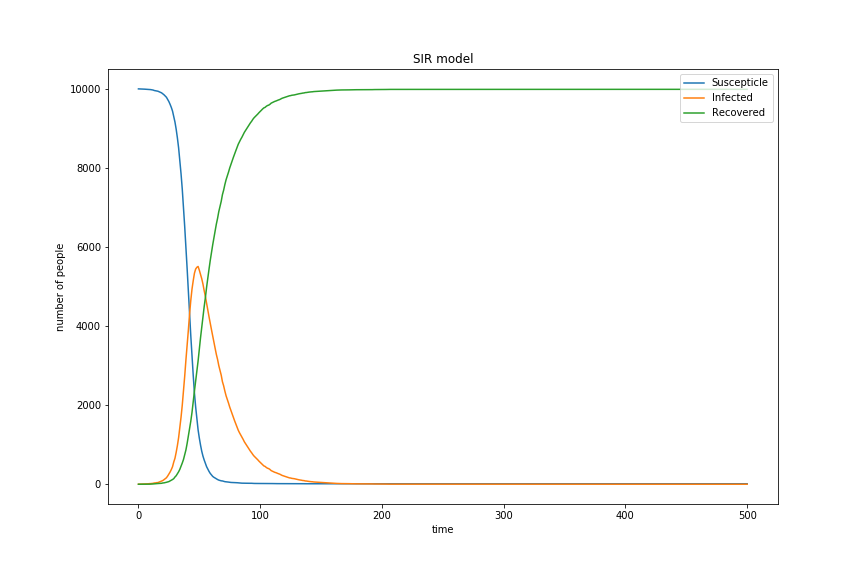
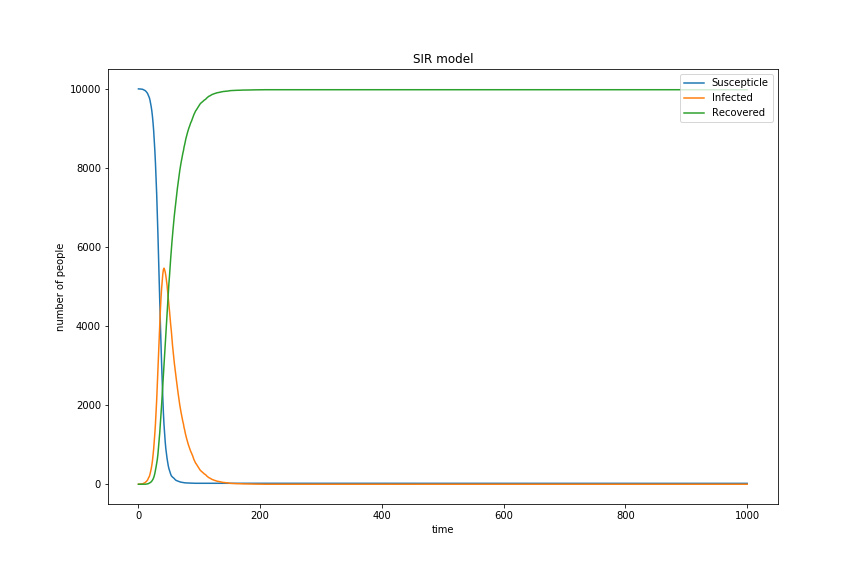
reviewed

diff --git a/Practical12/SIR_vac/SIR_vaccination.py b/Practical12/SIR_vac/SIR_vaccination.py
@@ -8,7 +8,7 @@ Created on Mon May  6 16:15:04 2019
 import numpy as np
 import matplotlib.pyplot as plt
 import pandas as pd
-b = 0.3; y = 0.05; T = 500 # b for beta, y for gamma
+b = 0.3; y = 0.05; T = 1000 # b for beta, y for gamma
 a = []
 def chance(P,n):
     c = list(np.random.choice(range(2),n,p=[1-P,P]))

diff --git a/Practical12/SIR/SIR.py b/Practical12/SIR/SIR.py
@@ -8,7 +8,7 @@ Created on Mon May  6 16:15:04 2019
 import numpy as np
 import matplotlib.pyplot as plt
 import pandas as pd
-S = 9999; I = 1; R = 0; N = S + I + R; T = 500
+S = 9999; I = 1; R = 0; N = S + I + R; T = 1000
 b = 0.3; y = 0.05 #b for beta, y for gamma
 a = [[9999,1,0,0]] #Day 0
 def chance(P,n):
